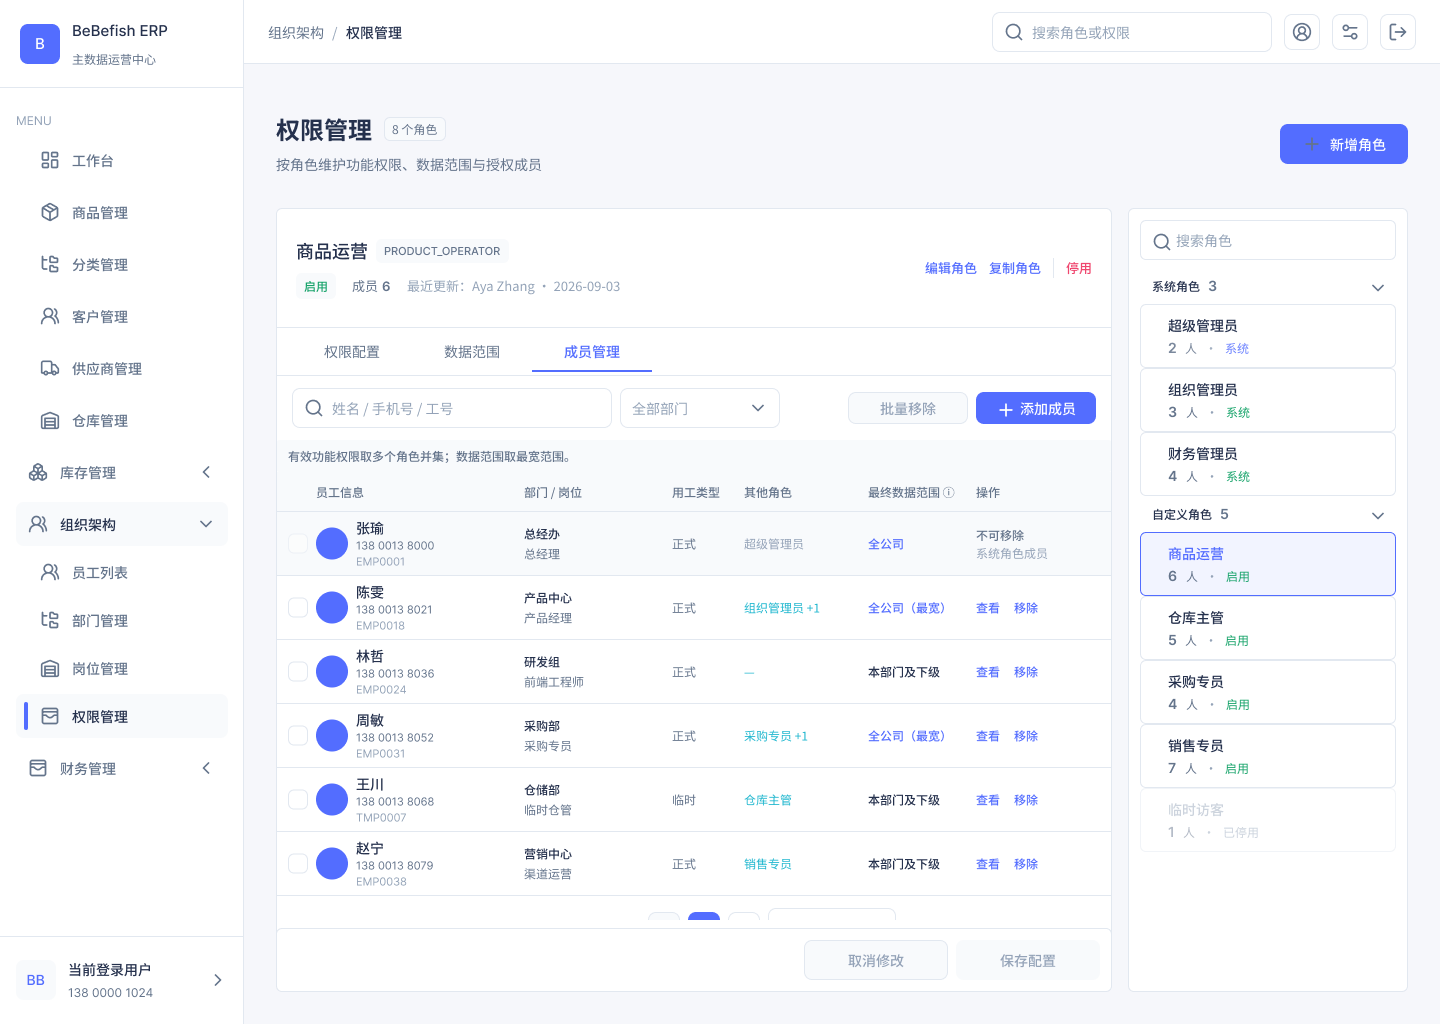
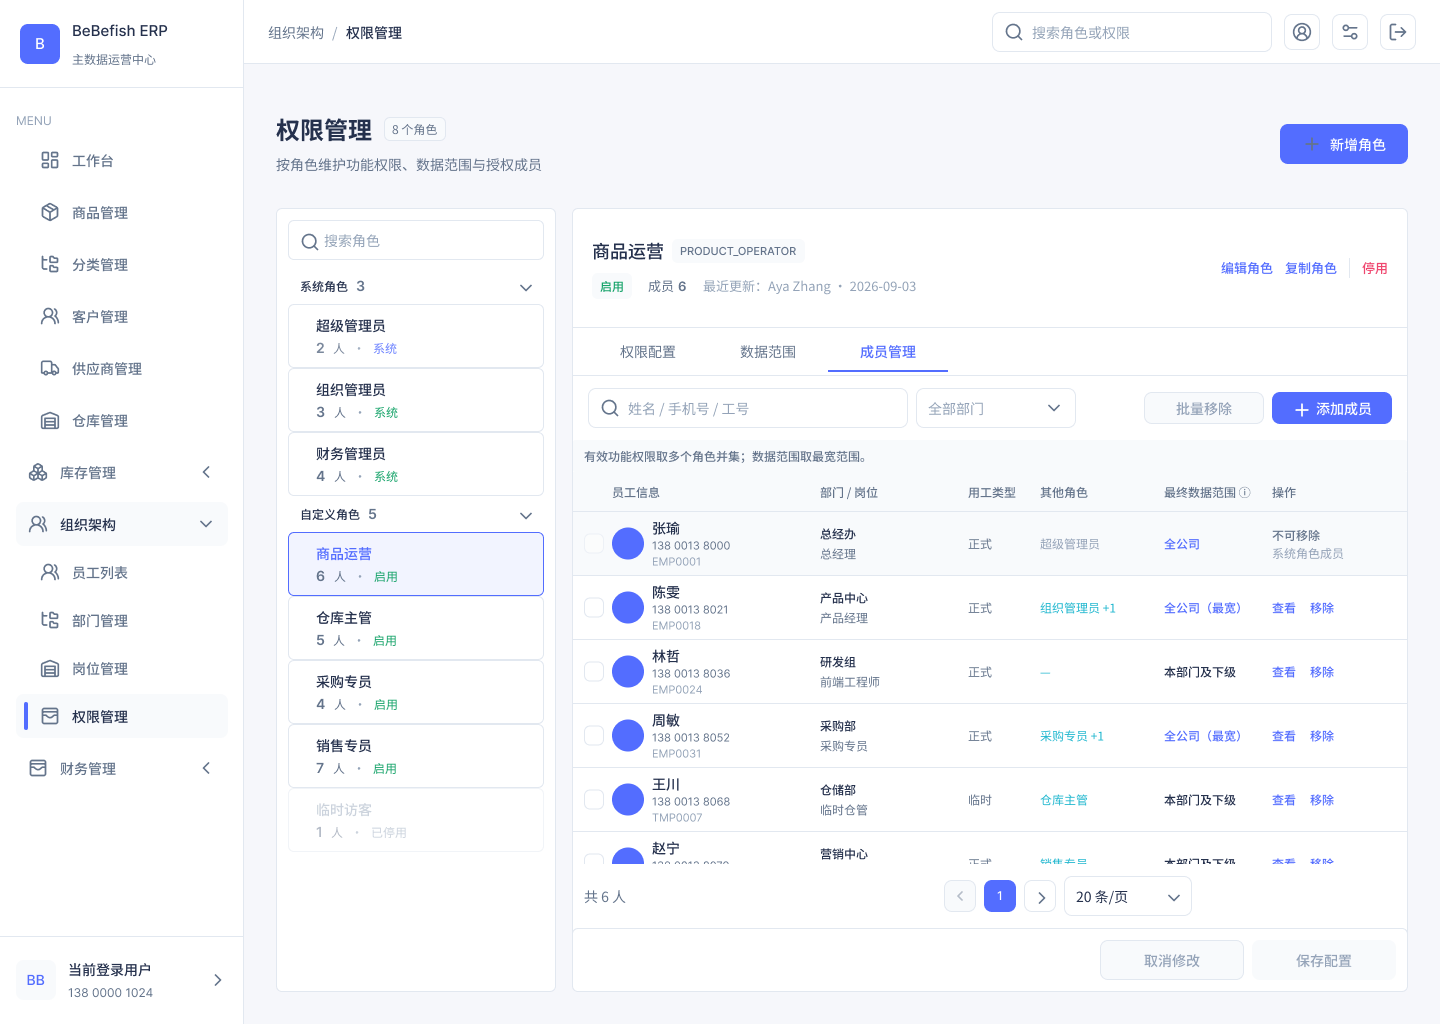
fix: close organization permission review findings

diff --git a/frontend/src/features/organization/OrganizationComponents.test.ts b/frontend/src/features/organization/OrganizationComponents.test.ts
@@ -1,11 +1,14 @@
 import { mount } from '@vue/test-utils';
 import { describe, expect, it } from 'vitest';
+import { nextTick } from 'vue';
+import DepartmentFormDrawer from './components/DepartmentFormDrawer.vue';
 import DepartmentTree from './components/DepartmentTree.vue';
 import OrganizationPagination from './components/OrganizationPagination.vue';
 import OrganizationStatusBadge from './components/OrganizationStatusBadge.vue';
 import { buildDepartmentTree } from './organizationTree';
 import type {
   Department,
+  Employee,
   EmployeeStatus,
   FeishuBindingStatus,
   OrganizationRecordStatus
@@ -137,6 +140,63 @@ describe('OrganizationPagination', () => {
     expect(next.attributes('disabled')).toBeDefined();
     await next.trigger('click');
     expect(wrapper.emitted('page')).toBeUndefined();
+  });
+
+  it('reconciles a parent page after the result shrinks to an earlier last page', async () => {
+    const wrapper = mount(OrganizationPagination, { props: { page: 2, pageSize: 10, total: 9 } });
+    await nextTick();
+
+    expect(wrapper.emitted('page')).toEqual([[1]]);
+  });
+});
+
+describe('DepartmentFormDrawer', () => {
+  it('keeps saved disabled relationships visible as read-only options', async () => {
+    const department: Department = {
+      id: 5,
+      departmentCode: 'ARCHIVE-CHILD',
+      departmentName: '归档子部门',
+      parentId: 4,
+      managerEmployeeId: 9,
+      managerName: '离职负责人',
+      sortOrder: 10,
+      status: 'disabled'
+    };
+    const inactiveManager: Employee = {
+      id: 9,
+      employeeNo: 'E009',
+      employeeName: '离职负责人',
+      mobile: '13800000009',
+      departmentId: 5,
+      positionId: 1,
+      employmentType: 'formal',
+      status: 'resigned',
+      hireDate: '2025-01-01',
+      feishuBindingStatus: 'unbound',
+      feishuDisplayName: '',
+      passwordLoginEnabled: false
+    };
+    const wrapper = mount(DepartmentFormDrawer, {
+      props: {
+        mode: 'edit',
+        department,
+        parentId: null,
+        departments: [...departments, department],
+        employees: [inactiveManager],
+        saving: false,
+        error: ''
+      }
+    });
+    await nextTick();
+
+    const parent = wrapper.get('[data-testid="department-parent"]');
+    const manager = wrapper.get('[data-testid="department-manager"]');
+    expect((parent.element as HTMLSelectElement).value).toBe('4');
+    expect(parent.get('option[value="4"]').attributes('disabled')).toBeDefined();
+    expect(parent.text()).toContain('财务部');
+    expect((manager.element as HTMLSelectElement).value).toBe('9');
+    expect(manager.get('option[value="9"]').attributes('disabled')).toBeDefined();
+    expect(manager.text()).toContain('离职负责人');
   });
 });
 

diff --git a/frontend/src/features/organization/components/DepartmentFormDrawer.vue b/frontend/src/features/organization/components/DepartmentFormDrawer.vue
@@ -57,10 +57,12 @@ const excludedParentIds = computed(() => props.department
   ? collectDepartmentSubtreeIds(props.departments, props.department.id)
   : new Set<number>());
 const parentOptions = computed(() => props.departments.filter((department) => (
-  department.status === 'enabled'
+  (department.status === 'enabled' || department.id === form.value.parentId)
   && !excludedParentIds.value.has(department.id)
 )));
-const managerOptions = computed(() => props.employees.filter((employee) => employee.status === 'active'));
+const managerOptions = computed(() => props.employees.filter((employee) => (
+  employee.status === 'active' || employee.id === form.value.managerEmployeeId
+)));
 
 watch(() => [props.mode, props.department?.id, props.parentId] as const, () => {
   form.value = initialForm();
@@ -169,14 +171,18 @@ onBeforeUnmount(() => {
               上级部门
               <select v-model.number="form.parentId" data-testid="department-parent" class="mt-1.5 h-10 w-full rounded-[6px] border border-slate-200 bg-white px-3 text-sm font-normal text-[#25314d] outline-none focus:border-[#536dff] focus:ring-2 focus:ring-[#536dff]/10">
                 <option :value="null">全公司</option>
-                <option v-for="item in parentOptions" :key="item.id" :value="item.id">{{ item.departmentName }}</option>
+                <option v-for="item in parentOptions" :key="item.id" :value="item.id" :disabled="item.status !== 'enabled'">
+                  {{ item.departmentName }}{{ item.status === 'disabled' ? '（已停用）' : '' }}
+                </option>
               </select>
             </label>
             <label class="block text-xs font-medium text-slate-500">
               部门负责人
               <select v-model.number="form.managerEmployeeId" data-testid="department-manager" class="mt-1.5 h-10 w-full rounded-[6px] border border-slate-200 bg-white px-3 text-sm font-normal text-[#25314d] outline-none focus:border-[#536dff] focus:ring-2 focus:ring-[#536dff]/10">
                 <option :value="null">暂不设置</option>
-                <option v-for="employee in managerOptions" :key="employee.id" :value="employee.id">{{ employee.employeeName }} · {{ employee.employeeNo }}</option>
+                <option v-for="employee in managerOptions" :key="employee.id" :value="employee.id" :disabled="employee.status !== 'active'">
+                  {{ employee.employeeName }} · {{ employee.employeeNo }}{{ employee.status !== 'active' ? '（非在职）' : '' }}
+                </option>
               </select>
             </label>
             <label class="block text-xs font-medium text-slate-500">

diff --git a/frontend/src/features/organization/components/OrganizationPagination.vue b/frontend/src/features/organization/components/OrganizationPagination.vue
@@ -1,6 +1,6 @@
 <script setup lang="ts">
 import { ChevronLeft, ChevronRight } from 'lucide-vue-next';
-import { computed } from 'vue';
+import { computed, watch } from 'vue';
 
 type PageItem = number | 'ellipsis-left' | 'ellipsis-right';
 
@@ -18,6 +18,11 @@ const emit = defineEmits<{
 const pageCount = computed(() => Math.max(1, Math.ceil(props.total / props.pageSize)));
 const currentPage = computed(() => Math.min(Math.max(props.page, 1), pageCount.value));
 
+watch([() => props.page, pageCount], ([requestedPage, validPageCount]) => {
+  const validPage = Math.min(Math.max(requestedPage, 1), validPageCount);
+  if (validPage !== requestedPage) emit('page', validPage);
+}, { immediate: true });
+
 const pageItems = computed<PageItem[]>(() => {
   const totalPages = pageCount.value;
   if (totalPages <= 7) return Array.from({ length: totalPages }, (_, index) => index + 1);
@@ -29,7 +34,7 @@ const pageItems = computed<PageItem[]>(() => {
 });
 
 function changePage(page: number) {
-  if (!Number.isInteger(page) || page < 1 || page > pageCount.value || page === currentPage.value) return;
+  if (!Number.isInteger(page) || page < 1 || page > pageCount.value || page === props.page) return;
   emit('page', page);
 }
 

diff --git a/docs/superpowers/plans/2026-09-04-organization-permission-final-fix-wave.md b/docs/superpowers/plans/2026-09-04-organization-permission-final-fix-wave.md
@@ -1,0 +1,165 @@
+# Organization And Permission Final Fix Wave Implementation Plan
+
+> **For agentic workers:** REQUIRED SUB-SKILL: Use superpowers:subagent-driven-development (recommended) or superpowers:executing-plans to implement this plan task-by-task. Steps use checkbox (`- [ ]`) syntax for tracking.
+
+**Goal:** Close the three Important and one Minor findings from the organization/permission handoff without touching the five protected user-owned source-worktree files.
+
+**Architecture:** Keep pagination reconciliation inside the shared `OrganizationPagination` controlled component so all three protected list views receive the same valid page event. Keep relationship visibility inside `DepartmentFormDrawer` by admitting only the currently saved disabled/inactive records as disabled options. In Figma, restore the existing shared two-column order and make the populated member table a header + independently scrolling rows viewport + pinned pagination composition inside the fixed workspace.
+
+**Tech Stack:** Vue 3, TypeScript, Vitest, Vue Test Utils, Figma Plugin API
+
+**Spec:** `docs/handovers/2026-09-04-organization-permission-continuation.md`
+
+## Global Constraints
+
+- Do not edit, stage, or revert the five protected files listed in the handoff.
+- Keep exactly four `1440x1024` permission deliverables and do not modify organization section `499:9745`.
+- The permission work remains a Figma-only prototype; do not add production permission routes or backend enforcement.
+- Do not merge or push.
+
+---
+
+### Task 1: Reconcile Stranded Organization Pagination
+
+**Files:**
+- Modify: `frontend/src/features/organization/components/OrganizationPagination.vue`
+- Test: `frontend/src/features/organization/OrganizationComponents.test.ts`
+
+**Interfaces:**
+- Consumes: controlled props `page`, `pageSize`, and `total`.
+- Produces: `page(validPage: number)` when the parent page falls outside the current page count.
+
+- [x] **Step 1: Write the failing regression test**
+
+```ts
+it('reconciles a parent page after the result shrinks to an earlier last page', async () => {
+  const wrapper = mount(OrganizationPagination, { props: { page: 2, pageSize: 10, total: 9 } });
+  await nextTick();
+  expect(wrapper.emitted('page')).toEqual([[1]]);
+});
+```
+
+- [x] **Step 2: Run the focused test and verify RED**
+
+Run: `cd frontend && npm run test:run -- src/features/organization/OrganizationComponents.test.ts`
+
+Expected: FAIL because no `page` event is emitted for the clamped display page.
+
+- [x] **Step 3: Implement the minimal controlled-state reconciliation**
+
+Import `watch` and add:
+
+```ts
+watch([() => props.page, pageCount], ([requestedPage, validPageCount]) => {
+  const validPage = Math.min(Math.max(requestedPage, 1), validPageCount);
+  if (validPage !== requestedPage) emit('page', validPage);
+}, { immediate: true });
+```
+
+Keep user-click validation, but compare a clicked target with the raw `props.page` so the displayed valid page can always repair stale parent state.
+
+- [x] **Step 4: Run the focused test and verify GREEN**
+
+Run: `cd frontend && npm run test:run -- src/features/organization/OrganizationComponents.test.ts`
+
+Expected: PASS with the new regression and all existing component tests.
+
+### Task 2: Preserve Existing Disabled Department Relationships
+
+**Files:**
+- Modify: `frontend/src/features/organization/components/DepartmentFormDrawer.vue`
+- Test: `frontend/src/features/organization/OrganizationComponents.test.ts`
+
+**Interfaces:**
+- Consumes: the edited department's saved `parentId` and `managerEmployeeId`.
+- Produces: normal enabled/active options plus a disabled option for each saved relationship that would otherwise be filtered out.
+
+- [x] **Step 1: Write the failing drawer regression test**
+
+Mount edit mode with a disabled parent and a resigned manager, then assert both saved IDs remain selected, their labels are visible, and their matching `<option>` elements have `disabled` set.
+
+```ts
+expect((wrapper.get('[data-testid="department-parent"]').element as HTMLSelectElement).value).toBe('4');
+expect(wrapper.get('[data-testid="department-parent"] option[value="4"]').attributes('disabled')).toBeDefined();
+expect((wrapper.get('[data-testid="department-manager"]').element as HTMLSelectElement).value).toBe('9');
+expect(wrapper.get('[data-testid="department-manager"] option[value="9"]').attributes('disabled')).toBeDefined();
+```
+
+- [x] **Step 2: Run the focused test and verify RED**
+
+Run: `cd frontend && npm run test:run -- src/features/organization/OrganizationComponents.test.ts`
+
+Expected: FAIL because the saved records are absent from both selects.
+
+- [x] **Step 3: Implement current-record-aware option lists**
+
+Include a department when it is enabled or equals `form.parentId`; include an employee when active or equals `form.managerEmployeeId`. Bind `:disabled` only for the inactive saved option, while leaving create-mode filtering and subtree exclusion unchanged.
+
+- [x] **Step 4: Run the focused test and verify GREEN**
+
+Run: `cd frontend && npm run test:run -- src/features/organization/OrganizationComponents.test.ts`
+
+Expected: PASS and no Vue warnings.
+
+### Task 3: Repair Figma Hierarchy And Member Table Geometry
+
+**Files:**
+- Modify: Figma file `jIz9HNkSoXH63gvTc3yOtj`, page `1:3`
+- Modify: `docs/superpowers/plans/2026-09-04-permission-management-figma-prototype.md`
+- Modify: `frontend/prototype-screenshots/permissions/permission-management-matrix.png`
+- Modify: `frontend/prototype-screenshots/permissions/permission-management-data-scope.png`
+- Modify: `frontend/prototype-screenshots/permissions/permission-management-members.png`
+- Modify: `frontend/prototype-screenshots/permissions/permission-management-create-role.png`
+
+**Interfaces:**
+- Consumes: role-panel instances `741:18928` and `741:19031`, populated member-table component `614:12373`, and member workspace component `621:12538`.
+- Produces: role panel at frame-relative `x=0` (`x=276` relative to each deliverable), main workspace at `x=296`, and a populated member table whose pinned paginator ends before the action bar at member-workspace `y=720`.
+
+- [x] **Step 1: Restore role-panel-first child order**
+
+For workspace rows `600:11958` and `622:12751`, move the role-panel instance to child index 0. Validate that auto-layout places role panel at `x=0` and main workspace at `x=296`.
+
+- [x] **Step 2: Add an independent rows viewport to the populated member table**
+
+In component `614:12373`, create `Member Rows Scroll Viewport` at child index 1, width `836`, height `352`, `clipsContent=true`, and `overflowDirection='VERTICAL'`. Reparent the six member rows and six separators in their existing order, resetting row-relative `y` values to `0..383`. Keep the header fixed before the viewport and pagination fixed after it; resize the component to `836x456`.
+
+- [x] **Step 3: Fit the table into the member workspace**
+
+Resize source instance `621:13947` to `836x456`, filling the member-management region from `y=96` to `y=552` while the fixed action bar remains at workspace `y=720`.
+
+- [x] **Step 4: Validate Figma structure and visuals**
+
+Verify exactly four direct `1440x1024` deliverables under `538:10667`, protected section `499:9745` unchanged, role panels at frame-relative `x=276`, member paginator ending at or before action-bar start, and no overlap/cropping at original scale.
+
+- [x] **Step 5: Refresh all four PNG exports**
+
+Export nodes `572:11100`, `600:11953`, `622:12746`, and `626:13258` at 1x to their existing local filenames. Confirm all four are `1440x1024` and record the geometry/readback evidence in the existing Figma plan.
+
+### Task 4: Independent Review And Clean Verification
+
+**Files:**
+- Create: `.superpowers/sdd/2026-09-04-organization-permission-final-fix-wave/final-review.md`
+
+**Interfaces:**
+- Consumes: the complete bounded fix-wave diff and live Figma readback.
+- Produces: severity-counted review verdict plus clean test/build evidence.
+
+- [ ] **Step 1: Commit only intended fix-wave files**
+
+Stage the two unprotected Vue files, `OrganizationComponents.test.ts`, the final-fix plan/evidence, and only byte-changed permission PNGs. Confirm none of the five protected paths is staged.
+
+- [ ] **Step 2: Request an independent read-only review**
+
+Give the reviewer the handoff, plan, commit range, Figma IDs, and explicit instruction to report Critical/Important/Minor findings without mutating the checkout.
+
+- [ ] **Step 3: Address all Critical and Important review findings**
+
+Use a new RED/GREEN cycle for code changes and revalidate targeted Figma geometry for design changes. Re-request review until Critical and Important counts are zero.
+
+- [ ] **Step 4: Verify from a clean archive/worktree**
+
+Run full frontend `npm run test:run` and `npm run build` against the committed tree in a disposable clean directory. Run `mvn -Dtest=AuthServiceTest test`; run full `mvn test` only when all three required DB environment variables are set, otherwise report the known environment limitation.
+
+- [ ] **Step 5: Run final Git scope checks**
+
+Confirm the working tree is clean, the commit contains only intended paths, all four PNGs are `1440x1024`, no fifth permission deliverable exists, and no merge/push occurred.

diff --git a/docs/superpowers/plans/2026-09-04-permission-management-figma-prototype.md b/docs/superpowers/plans/2026-09-04-permission-management-figma-prototype.md
@@ -633,3 +633,11 @@ Provide the user with the Figma prototype URL, the four local screenshot links, 
 - Boundary audits remain `PASS`: exactly four named direct deliverables at `1440x1024`; six acceptance component sets fully contained with no overlap; `394` reaction sources / `955` actions with no visible out-of-bounds source, missing node destination, non-deliverable navigation target, or missing variable; `6585` inspected instances with zero orphans; `646` visible-deliverable text segments with zero font-assignment or letter-spacing violations; `19288` effectively visible audited nodes with zero placeholders or clipping-aware overflow failures.
 - Six-section verdicts remain: 授权模型 `PASS`; 页面布局 `PASS`; 原型画面 `PASS`; 交互与状态 `PASS`; 视觉规范 `PASS`; 原型验收 `PASS`.
 - Limitation: this remains a Figma-only prototype. It does not implement or prove backend authorization, API enforcement, database behavior, persistence, real organization synchronization, or a production route.
+
+#### Final Review Fix Wave
+
+- Status: `DONE`. The correction remained within permission section `538:10667`; protected organization section `499:9745` stayed at `22720,0`, `4800x2368`, with direct children `499:9746`, `499:9909`, `499:10072`, `499:10235`, and `499:10398`.
+- Shared layout repair: data-scope row `600:11958` and member row `622:12751` now place role-panel instances `741:18928` and `741:19031` first at row-local `x=0`, followed by their `836px` workspaces at `x=296`. Live frame readback reports both role panels at deliverable-relative `x=276`, matching matrix frame `572:11100`.
+- Member-table repair: populated component `614:12373` is now `836x456` with fixed header `615:12373` at `y=0`, independent vertical scrolling viewport `980:27829` at `y=40` (`836x352`, `clipsContent=true`, `overflowDirection=VERTICAL`), and pinned pagination `615:12507` at `y=392` (`836x64`). Source instance `621:13947` is `836x456`, filling the member region from local `y=96` through `552` while fixed action bar `621:12590` remains at workspace `y=720`.
+- Final deliverable readback returned `PASS`: exactly four direct named frames remain under `538:10667`, each `1440x1024`. In member frame `622:12746`, paginator `I622:13142;621:13947;615:12508` ends at absolute `y=6396`; action bar `I622:13142;621:12590` starts at `y=6408`, leaving `12px` clearance.
[1 lines of base64/hex data omitted]
